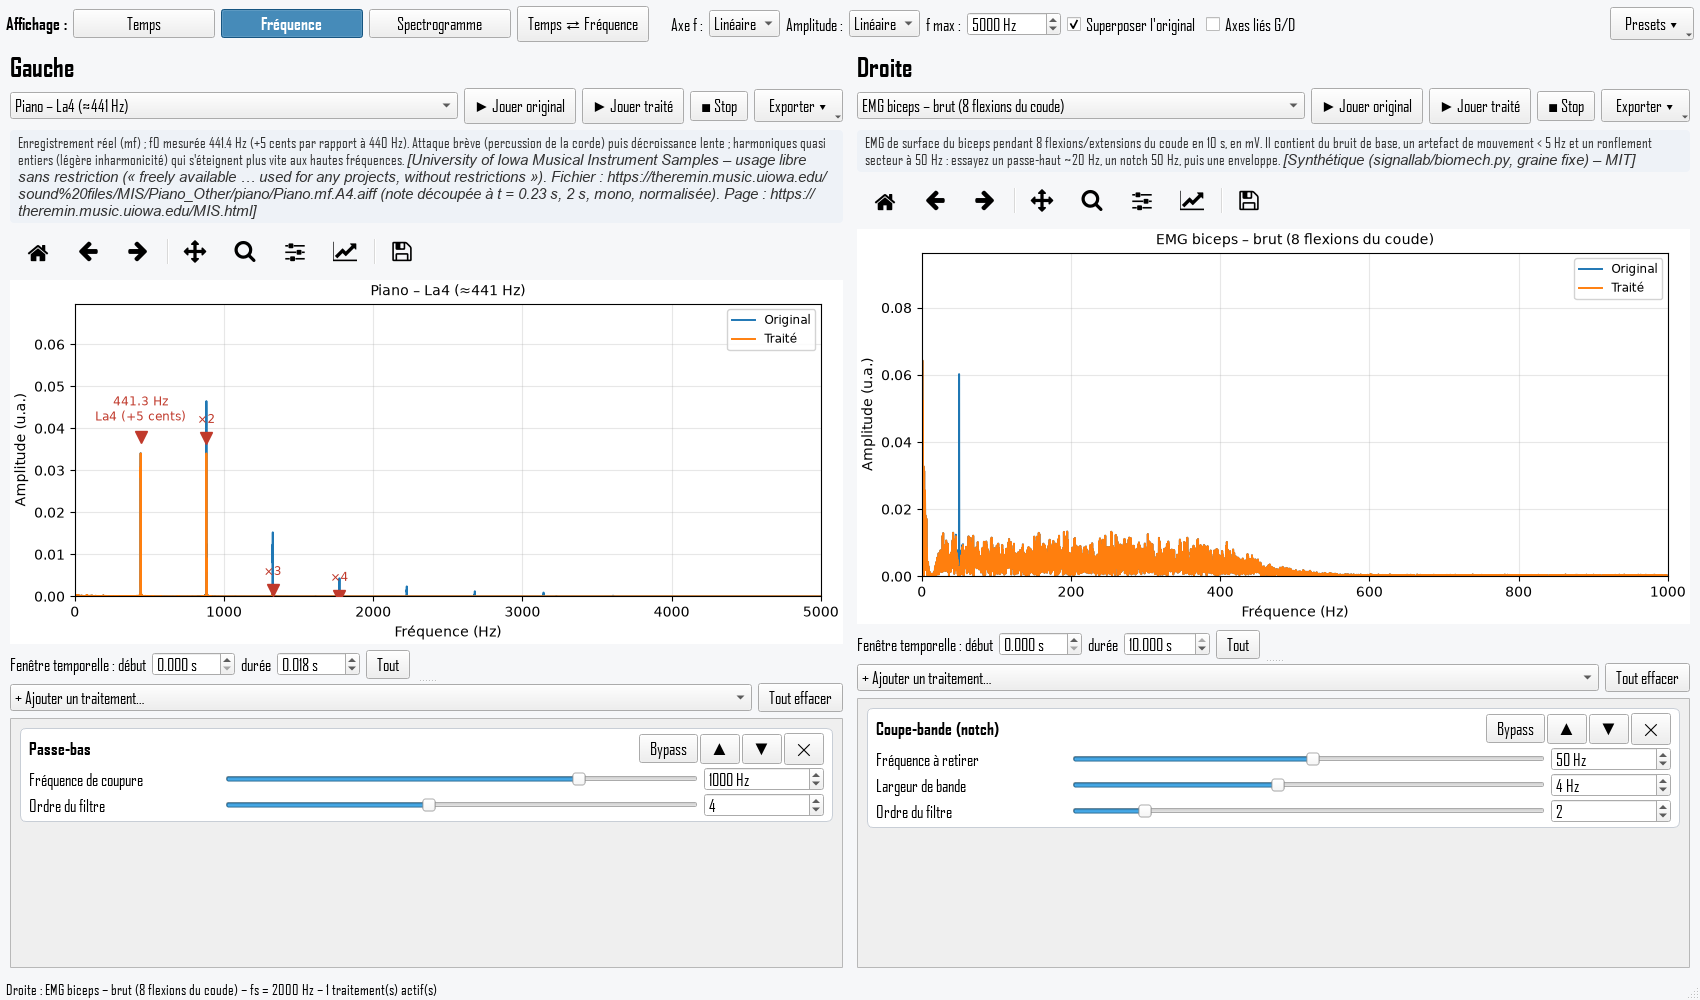
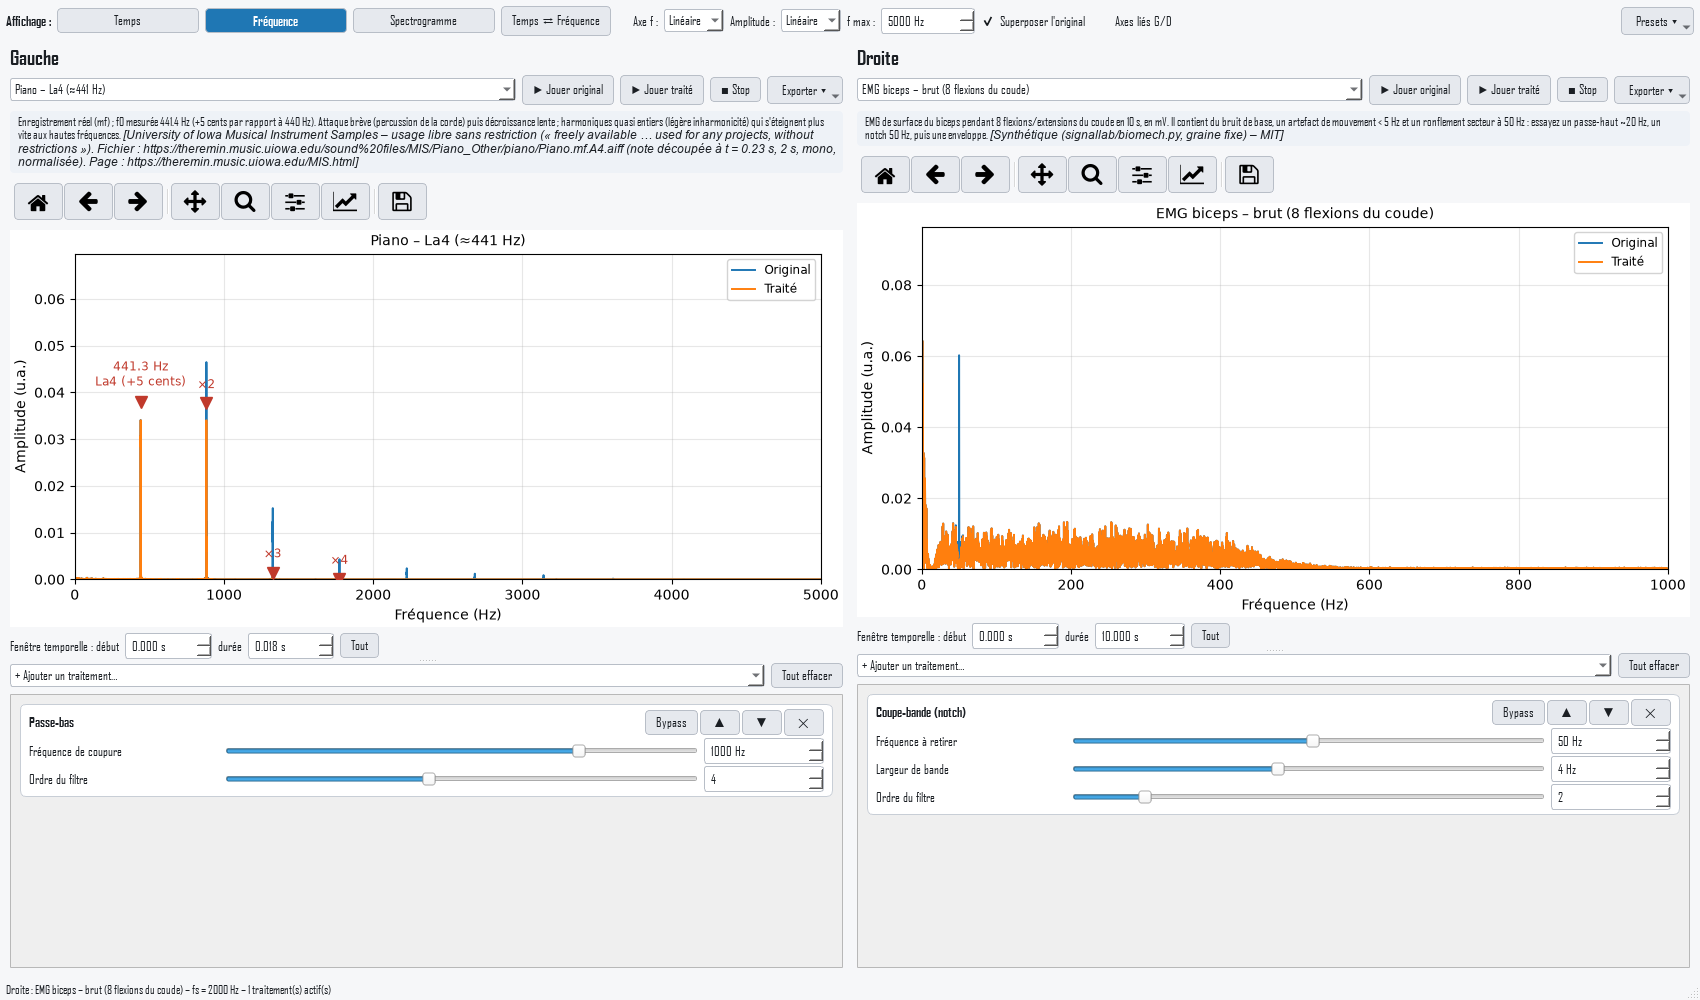
GUI: thème clair forcé (lisibilité), police réduite

diff --git a/signallab/gui/main_window.py b/signallab/gui/main_window.py
@@ -10,7 +10,7 @@ import numpy as np
 matplotlib.use("QtAgg")
 
 from PySide6.QtCore import Qt
-from PySide6.QtGui import QFont
+from PySide6.QtGui import QColor, QFont, QPalette
 from PySide6.QtWidgets import (QApplication, QButtonGroup, QCheckBox, QComboBox, QDoubleSpinBox, QHBoxLayout,
                                QLabel, QMainWindow, QMenu, QPushButton, QToolButton, QVBoxLayout, QWidget)
 
@@ -18,16 +18,23 @@ from .. import audio, signals
 from .side_panel import SidePanel
 
 STYLE = """
-* { font-size: 13pt; }
+* { font-size: 10pt; color: #1b1f24; }
 QMainWindow, QWidget#central { background: #f6f7f9; }
-QLabel#desc { color: #333; background: #eef2f7; border-radius: 4px; padding: 4px 6px; font-size: 11pt; }
+QLabel#desc { color: #1b1f24; background: #eef2f7; border-radius: 4px; padding: 4px 6px; font-size: 9pt; }
 QFrame#procItem { background: white; border: 1px solid #c8ced6; border-radius: 6px; }
-QPushButton, QToolButton { padding: 4px 10px; }
+QPushButton, QToolButton { padding: 4px 10px; background: #e6e9ee; border: 1px solid #b8bec7; border-radius: 4px; color: #1b1f24; }
+QPushButton:hover, QToolButton:hover { background: #d8dde5; }
+QComboBox, QSpinBox, QDoubleSpinBox, QLineEdit { background: white; color: #1b1f24; border: 1px solid #b8bec7; border-radius: 3px; padding: 2px 4px; }
+QComboBox QAbstractItemView { background: white; color: #1b1f24; selection-background-color: #1f77b4; selection-color: white; }
+QMenu { background: white; color: #1b1f24; border: 1px solid #b8bec7; }
+QMenu::item:selected { background: #1f77b4; color: white; }
+QCheckBox, QLabel { background: transparent; }
+QToolTip { background: #fffbe6; color: #1b1f24; border: 1px solid #b8bec7; }
 QPushButton:checked { background: #1f77b4; color: white; }
 QPushButton#mode { min-width: 120px; }
 QPushButton#mode:checked { background: #1f77b4; color: white; font-weight: bold; }
-QToolTip { font-size: 12pt; padding: 4px; }
-QStatusBar { font-size: 11pt; }
+QToolTip { font-size: 10pt; padding: 4px; }
+QStatusBar { font-size: 9pt; }
 """
 
 # (libellé, type de signal requis, préférences d'identifiant, chaîne)
@@ -234,12 +241,21 @@ class MainWindow(QMainWindow):
 
 def main():
     app = QApplication.instance() or QApplication(sys.argv)
+    app.setStyle("Fusion")
+    pal = QPalette()
+    for role, col in [(QPalette.Window, "#f6f7f9"), (QPalette.WindowText, "#1b1f24"), (QPalette.Base, "white"),
+                      (QPalette.AlternateBase, "#eef2f7"), (QPalette.Text, "#1b1f24"), (QPalette.Button, "#e6e9ee"),
+                      (QPalette.ButtonText, "#1b1f24"), (QPalette.ToolTipBase, "#fffbe6"),
+                      (QPalette.ToolTipText, "#1b1f24"), (QPalette.Highlight, "#1f77b4"),
+                      (QPalette.HighlightedText, "white")]:
+        pal.setColor(role, QColor(col))
+    app.setPalette(pal)
     app.setStyleSheet(STYLE)
     f = QFont(app.font())
-    f.setPointSize(13)
+    f.setPointSize(10)
     app.setFont(f)
-    matplotlib.rcParams.update({"font.size": 13, "axes.titlesize": 14, "axes.labelsize": 13,
-                                "legend.fontsize": 12, "lines.linewidth": 1.5})
+    matplotlib.rcParams.update({"font.size": 10, "axes.titlesize": 11, "axes.labelsize": 10,
+                                "legend.fontsize": 9, "lines.linewidth": 1.5})
     w = MainWindow()
     w.show()
     return app.exec()
